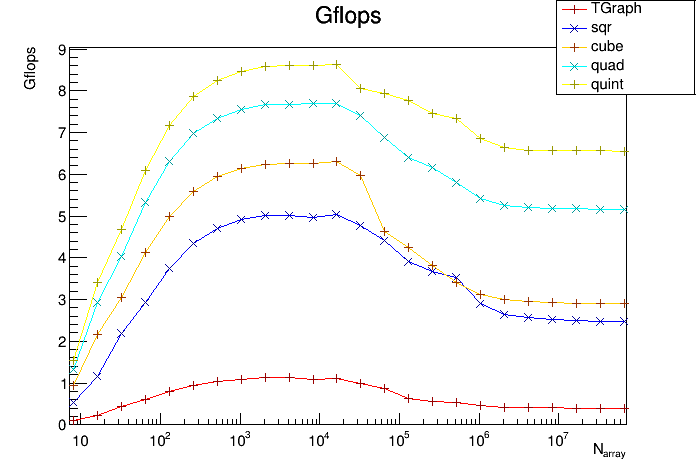
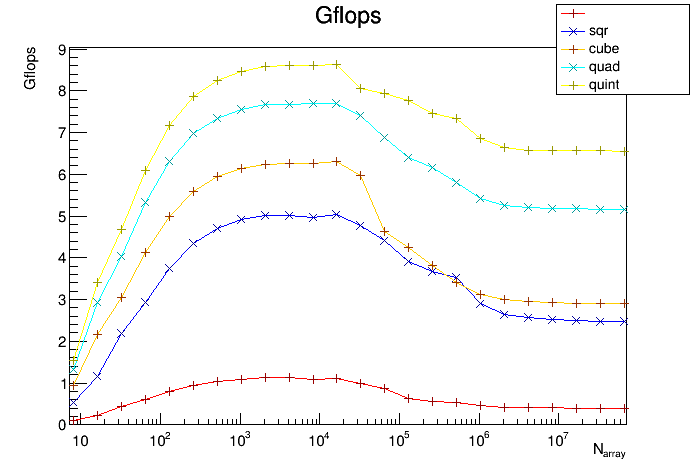
Last tweaks for t1-1 test.

Changed region(s): [[0.7845, 0.0, 1.0, 0.2076]]

diff --git a/anal_t1.C b/anal_t1.C
@@ -3,7 +3,8 @@
 
 //==============================================================================
 
-const int NN = 3;
+const int MaxNN = 6;
+      int NN    = 3;
 
 // Vec / no vec comparison; t1-0:
 // TString  Gsuff[] = { "host_avx", "mic_mic", "host_novec", "mic_novec", "host_nosimd", "mic_nosimd" };
@@ -25,7 +26,7 @@ int      Gmsty[] = { 2, 5, 2, 5, 2, 5};
 int      Gmcol[] = { kRed+2, kBlue+2, kOrange+4, kCyan+2, kYellow+2, kGreen+2 };
 int      Glcol[] = { kRed, kBlue, kOrange, kCyan, kYellow, kGreen };
 
-TTree   *T[NN]   = { 0 };
+TTree   *T[MaxNN]   = { 0 };
 
 //==============================================================================
 
@@ -74,7 +75,7 @@ TMultiGraph* plot_graph(const TString& varexp,
     n = T[i]->Draw(varexp, "", "goff");
     g = new TGraph(n, T[i]->GetV1(), T[i]->GetV2());
 
-    TString nt(Gsuff[i]);
+    TString nt(Gsuff[i]); if (nt.IsNull()) nt = " ";
     g->SetName(nt);
     g->SetTitle(nt);
 
@@ -127,6 +128,11 @@ void do_all(const TString& name, const TString& post, bool save_p=false)
 
 void anal1_t1(bool save_p=false)
 {
+  NN = 3;
+  do_all("arr_sum3", "host_O3", save_p);
   do_all("arr_sum3", "mic_O3", save_p);
-  // do_all("arr_sum2_cube", save_p);
+
+  NN = 5;
+  do_all("arr_sum2", "host_O3", save_p);
+  do_all("arr_sum2", "mic_O3", save_p);
 }
